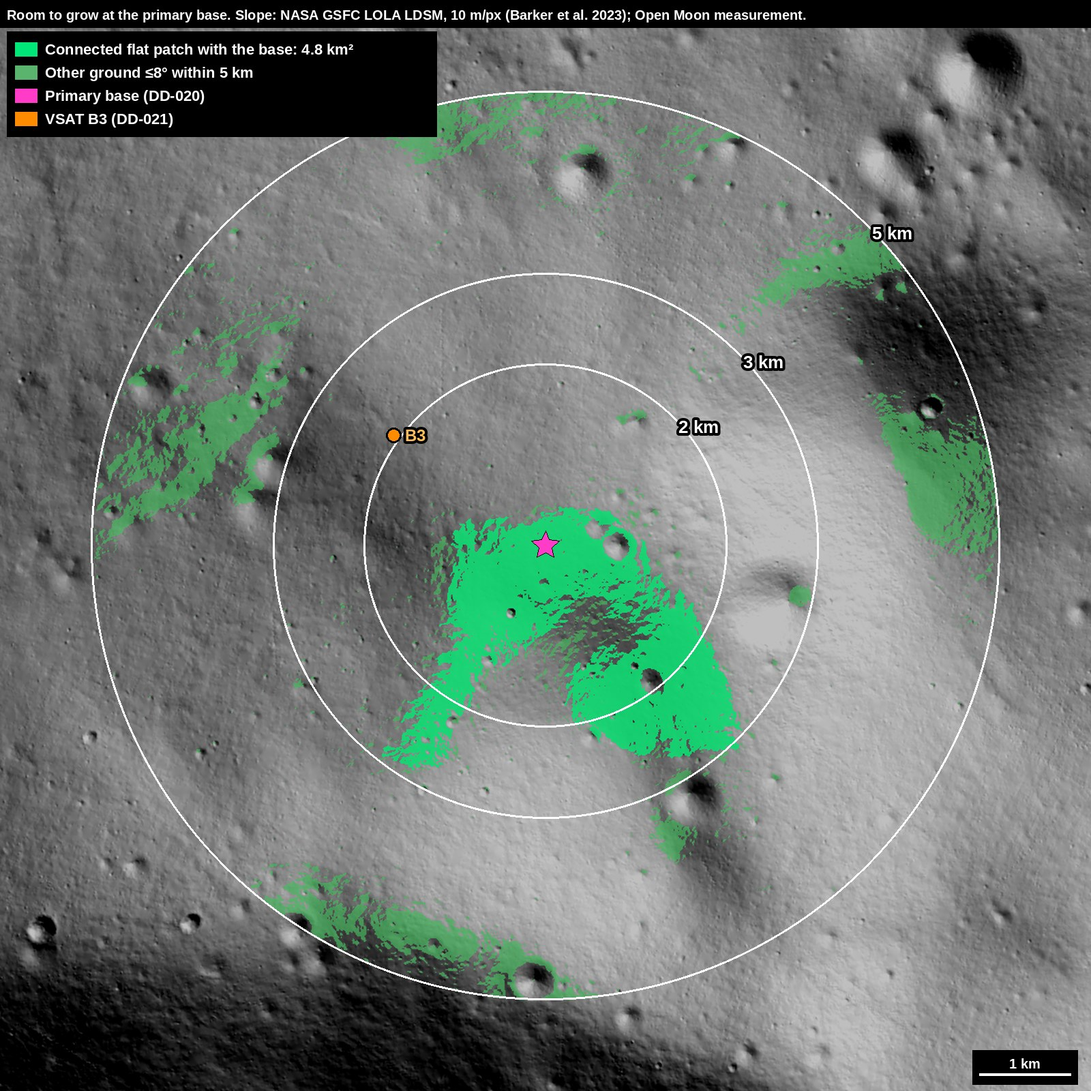
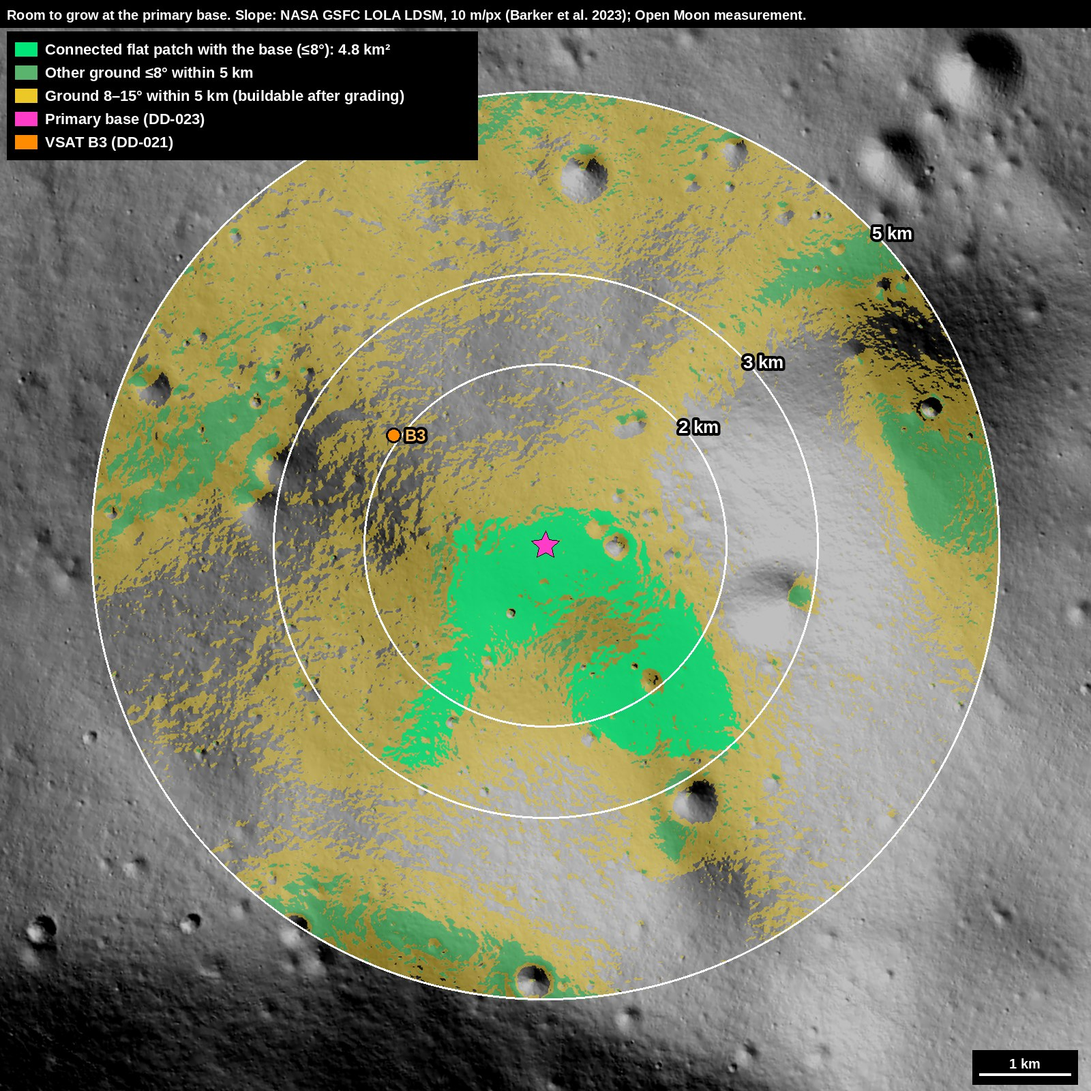
Room to grow: add 8–15° ground (buildable after grading) to the map and table
Claude-Session: https://claude.ai/code/session_01EMgvSv8Ki6A9jj7v8eiV3S

Changed region(s): [[0.0, 0.0312, 0.9375, 0.9375], [0.7188, 0.5312, 0.75, 0.5625]]

diff --git a/analysis/sitesearch/mk_expansion.py b/analysis/sitesearch/mk_expansion.py
@@ -14,10 +14,15 @@ km2 = lambda m: m.sum() * RES * RES / 1e6
 lab15, _ = ndimage.label(s <= 15); drive = lab15 == lab15[c]
 sizes = np.bincount(lab.ravel()); big = np.isin(lab, np.where(sizes * RES * RES / 1e6 >= 0.05)[0][1:])
 stats = {'patch': km2(patch)}
+mid = (s > 8) & (s <= 15); lab15c = ndimage.label(s <= 15)[0]; patch15 = lab15c == lab15c[c]
+stats['patch15'] = km2(patch15)
+for r in (2000, 3000, 5000):
+    m = d <= r; stats['le15_%d' % r] = km2((s <= 15) & m); stats['mid_%d' % r] = km2(mid & m)
 for r in (2000, 3000, 5000):
     m = d <= r; stats[r] = (km2(flat & m), km2(flat & big & drive & m))
 hv = np.clip((h - np.percentile(h, 1)) / (np.percentile(h, 99) - np.percentile(h, 1)), 0, 1)
 rgb = np.stack([hv * 255] * 3, -1) * 0.75
+rgb = np.where((mid & (d <= 5000))[..., None], rgb * 0.5 + np.array([235, 200, 40]) * 0.5, rgb)   # 8-15 deg: buildable after grading
 rgb = np.where((flat & (d <= 5000))[..., None], rgb * 0.45 + np.array([60, 200, 90]) * 0.55, rgb)
 rgb = np.where(patch[..., None], rgb * 0.3 + np.array([0, 230, 120]) * 0.7, rgb)
 im = Image.fromarray(rgb.clip(0, 255).astype('uint8')).resize((1600, 1600), Image.LANCZOS); k = 1600 / Wd
@@ -33,11 +38,11 @@ dr.polygon(pts, fill=(255, 60, 200), outline='black')
 bx, by = (B3[0] - bb[0]) / RES * k, (bb[3] - B3[1]) / RES * k
 dr.ellipse((bx - 11, by - 11, bx + 11, by + 11), fill=(255, 140, 0), outline='black', width=3)
 dr.text((bx + 16, by), 'B3', font=F(24), fill=(255, 190, 90), anchor='lm', stroke_width=4, stroke_fill='black')
-rows = [((0, 230, 120), 'Connected flat patch with the base: %.1f km²' % stats['patch']), ((90, 180, 110), 'Other ground ≤8° within 5 km'),
-        ((255, 60, 200), 'Primary base (DD-020)'), ((255, 140, 0), 'VSAT B3 (DD-021)')]
+rows = [((0, 230, 120), 'Connected flat patch with the base (≤8°): %.1f km²' % stats['patch']), ((90, 180, 110), 'Other ground ≤8° within 5 km'), ((235, 200, 40), 'Ground 8–15° within 5 km (buildable after grading)'),
+        ((255, 60, 200), 'Primary base (DD-023)'), ((255, 140, 0), 'VSAT B3 (DD-021)')]
 dr.rectangle((0, 0, 1600, 40), fill='black')
 dr.text((10, 10), 'Room to grow at the primary base. Slope: NASA GSFC LOLA LDSM, 10 m/px (Barker et al. 2023); Open Moon measurement.', font=F(20), fill='white')
-y = 56; dr.rectangle((10, 46, 640, 56 + len(rows) * 34 + 8), fill='black')
+y = 56; dr.rectangle((10, 46, 700, 56 + len(rows) * 34 + 8), fill='black')
 for col, t in rows: dr.rectangle((22, y + 6, 54, y + 26), fill=col); dr.text((66, y + 16), t, font=F(22), fill='white', anchor='lm'); y += 34
 L = 1000 / RES * k; dr.rectangle((1600 - L - 40, 1540, 1580, 1590), fill='black'); dr.line([(1600 - L - 30, 1575), (1570, 1575)], fill='white', width=4); dr.text((1600 - L / 2 - 30, 1560), '1 km', font=F(20), fill='white', anchor='mm')
 im.save(sys.argv[1], quality=88)

diff --git a/_milestones/m00-site-selection.md b/_milestones/m00-site-selection.md
@@ -344,18 +344,17 @@ One lunar day (about 29.5 Earth days, a frame every 12 hours) over the base and 
 
 ## Room to grow at the primary site
 
-Flat ground (8° or less) around the base, measured by Open Moon from NASA's LOLA slope map at 10 m per pixel<sup class="r">[10](#s10)</sup>:
+Ground around the base, measured by Open Moon from NASA's LOLA slope map at 10 m per pixel<sup class="r">[10](#s10)</sup>. Ground of 8° or less is ready to build on. Ground of 8–15° is counted as room to grow, because by then excavation equipment can grade it flat (plan design).
 
-| Area | Flat ground |
-|---|---|
-| Connected patch the base sits in | **4.8 km²** |
-| All flat ground within 2 km | 3.8 km² |
-| All flat ground within 3 km | 5.3 km² |
-| All flat ground within 5 km | 11.0 km² |
-| Within 5 km, in patches of at least 0.05 km² that can be reached over ground of 15° or less | 7.1 km² |
+| Area | Flat (≤8°) | Buildable after grading (≤15°) |
+|---|---|---|
+| Connected area the base sits in | **4.8 km²** | **at least 64 km²** (it runs beyond the 12 × 12 km area measured) |
+| Within 2 km | 3.8 km² | 9.8 km² |
+| Within 3 km | 5.3 km² | 17.9 km² |
+| Within 5 km | 11.0 km² | 48.4 km² |
 
-**For scale** (this plan's arithmetic): the 4.8 km² patch is about the size of **Pitcairn Island** (4.5 km²)<sup class="r">[24](#s24)</sup>, about **2.4 times Monaco** (2.02 km²) and about **10 times Vatican City** (0.49 km²)<sup class="r">[25](#s25)</sup>. The 11.0 km² within 5 km is about 2.4 Pitcairns, 5.4 Monacos or 22 Vatican Cities.
+**For scale** (this plan's arithmetic): the 4.8 km² patch is about the size of **Pitcairn Island** (4.5 km²)<sup class="r">[24](#s24)</sup>, about **2.4 times Monaco** (2.02 km²) and about **10 times Vatican City** (0.49 km²)<sup class="r">[25](#s25)</sup>. The 48.4 km² of buildable ground within 5 km is about 11 Pitcairns or 24 Monacos.
 
-The base can grow over its own 4.8 km² patch without crossing steeper ground. Within 5 km there is 7–11 km² of flat ground in all, in separate patches linked by drivable slopes. B3 stands off the patch, so none of it is lost to a pad keep-out (DD-021).
+The base can start on its own 4.8 km² flat patch. Once slopes up to 15° can be graded, the ground around it joins into one connected area of at least 64 km², which continues beyond the area measured. B3 stands off the patch, so none of it is lost to a pad keep-out (DD-021).
 
-![Flat ground around the primary base: the connected 4.8 km² patch and other ground at 8° or less within 2, 3 and 5 km]({{ '/assets/sites/primary-expansion.jpg' | relative_url }})
+![Ground around the primary base: the connected 4.8 km² flat patch, other flat ground, and ground of 8–15° within 2, 3 and 5 km]({{ '/assets/sites/primary-expansion.jpg' | relative_url }})
